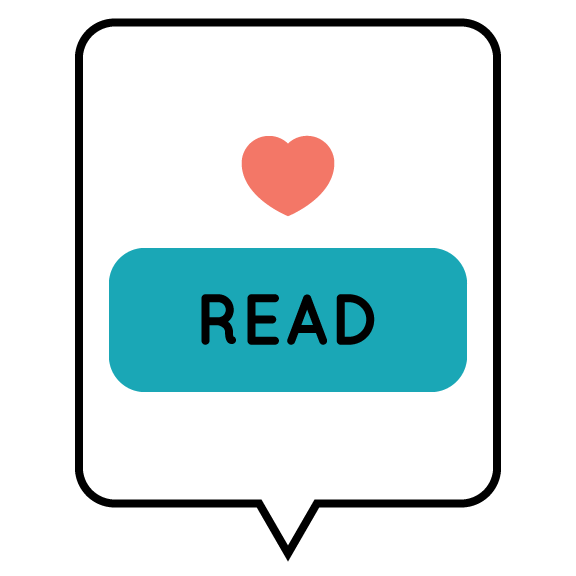
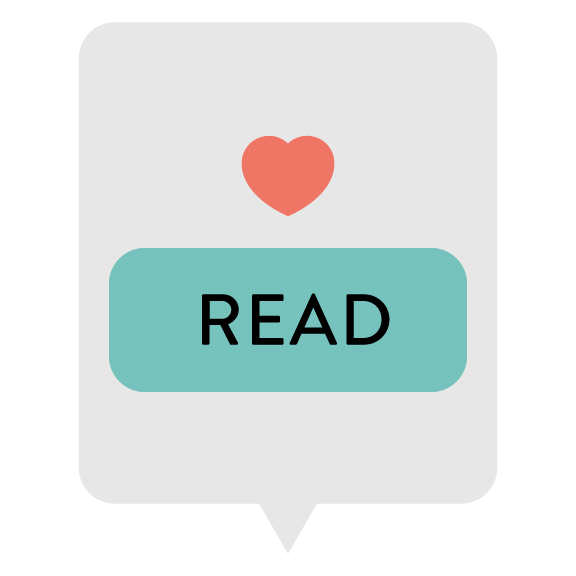
align peek reader text

Changed region(s): [[0.1875, 0.4062, 0.8125, 0.6875], [0.125, 0.0312, 0.875, 0.9062], [0.4688, 0.9062, 0.5312, 0.9688]]

diff --git a/public/stylesheets/introAnimationStyle.css b/public/stylesheets/introAnimationStyle.css
@@ -239,8 +239,8 @@ Speech Bubble
 -----------------------------------------*/
 
 #speechbubble {
-  height: 200px;
-  width: 200px;
+  height: 240px;
+  width: 240px;
   background-image: url(../images/speechbubble.png);
   background-size: contain;
   background-repeat: no-repeat;
@@ -370,8 +370,8 @@ Welcome Bucket
 Enter Button
 -----------------------------------------*/
 .closeIntroButton {
-  height: 45px;
-  width: 100px;
+  height: 90px;
+  width: 200px;
   background-color: #ee6557;
   font-family: Brandon_light;
   color: white;
@@ -380,8 +380,9 @@ Enter Button
   margin: 0 auto;
   margin-bottom: 50%;
   border-radius: 10px;
+  padding-top: 20px;
   overflow: auto;
-  font-size: 14pt;
+  font-size: 21pt;
   position: relative;
   overflow: hidden;
 }

diff --git a/public/javascripts/introAnimationScript.js b/public/javascripts/introAnimationScript.js
@@ -62,21 +62,21 @@ function introTextContent4() {
 
   introFront.innerHTML = "Re";
   introCenter.innerHTML = "a";
-  introBack.innerHTML = "dy"; 
+  introBack.innerHTML = "dy&nbsp; &nbsp;"; 
 };
 
 function introTextContent5() {
 
   introFront.innerHTML = "S";
   introCenter.innerHTML = "e";
-  introBack.innerHTML = "t"; 
+  introBack.innerHTML = "t &nbsp;"; 
 };
 
 function introTextContent6() {
 
   introFront.innerHTML = "G";
   introCenter.innerHTML = "o";
-  introBack.innerHTML = "!"; 
+  introBack.innerHTML = "!&nbsp; &nbsp;"; 
 };
 
 
